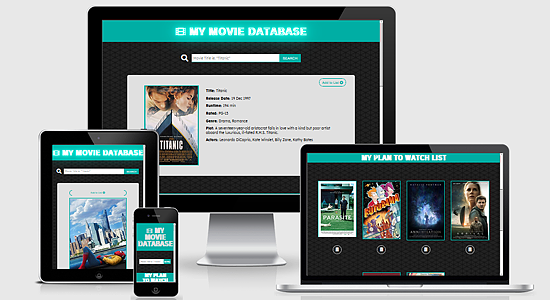
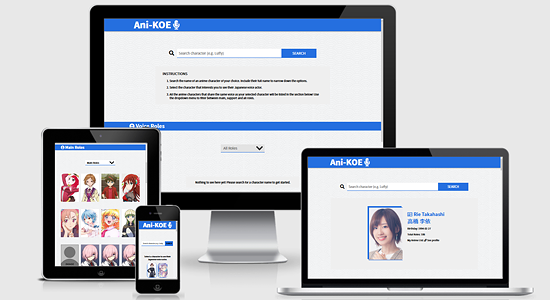
added new project in portfolio and improved font colour :file_folder: :art:

diff --git a/index.html b/index.html
@@ -200,6 +200,10 @@
                             <span class="sr-only">React</span>
                         </li>
                         <li>
+                            <i class="fab fa-css3-alt" aria-hidden="true"></i>
+                            <span class="sr-only">CSS</span>
+                        </li>
+                        <li>
                             <i class="devicon-firebase-plain" aria-hidden="true"></i>
                             <span class="sr-only">Firebase</span>
                         </li>
@@ -240,6 +244,34 @@
                 <div class="project fade hide">
                     <img src="./assets/project03.png" alt="Project mockup visual.">
                     <div class="projectTitle">
+                        <h4>Ani-Koe!</h4>
+                        <div class="links">
+                            <a href="https://github.com/iSupercell/aniKoe" target="_blank" rel="noopener noreferrer"><i class="fab fa-github" aria-hidden="true"></i> Github</a> <a href="https://anikoe.netlify.app/" target="_blank" rel="noopener noreferrer"><i class="fas fa-globe" aria-hidden="true"></i> Live site</a>
+                        </div>
+                    </div>
+                    <p>An application made for anime fans by an anime fan! Does the voice of an anime character sounds familiar? Search their name to find out who voiced them and what other characters share their voice! Built with the Jikan API.</p>
+                    <ul class="devTools">
+                        <li>
+                            <i class="fab fa-html5" aria-hidden="true"></i>
+                            <span class="sr-only">HTML 5</span>
+                        </li>
+                        <li>
+                            <i class="fab fa-css3-alt" aria-hidden="true"></i>
+                            <span class="sr-only">CSS 3</span>
+                        </li>
+                        <li>
+                            <i class="devicon-jquery-plain" aria-hidden="true"></i>
+                            <span class="sr-only">jQuery</span>
+                        </li>
+                        <li>
+                            <i class="fas fa-cogs" aria-hidden="true"></i>
+                            <span class="sr-only">Rest API</span>
+                        </li>
+                    </ul>
+                </div>
+                <div class="project fade hide">
+                    <img src="./assets/project04.png" alt="Project mockup visual.">
+                    <div class="projectTitle">
                         <h4>My Movie Database</h4>
                         <div class="links">
                             <a href="https://github.com/MSTRobort/myMovieDatabase" target="_blank" rel="noopener noreferrer"><i class="fab fa-github" aria-hidden="true"></i> Github</a> <a href="https://mymovie-database.netlify.app/" target="_blank" rel="noopener noreferrer"><i class="fas fa-globe" aria-hidden="true"></i> Live site</a>
@@ -252,6 +284,10 @@
                             <span class="sr-only">React</span>
                         </li>
                         <li>
+                            <i class="fab fa-css3-alt" aria-hidden="true"></i>
+                            <span class="sr-only">CSS</span>
+                        </li>
+                        <li>
                             <i class="devicon-firebase-plain" aria-hidden="true"></i>
                             <span class="sr-only">Firebase</span>
                         </li>
@@ -262,7 +298,7 @@
                     </ul>
                 </div>
                 <div class="project fade hide">
-                    <img src="./assets/project04.png" alt="Project mockup visual.">
+                    <img src="./assets/project05.png" alt="Project mockup visual.">
                     <div class="projectTitle">
                         <h4>Apple Pie!</h4>
                         <div class="links">
@@ -286,7 +322,7 @@
                     </ul>
                 </div>
                 <div class="project fade hide">
-                    <img src="./assets/project05.png" alt="Project mockup visual.">
+                    <img src="./assets/project06.png" alt="Project mockup visual.">
                     <div class="projectTitle">
                         <h4>PSD Design Conversion</h4>
                         <div class="links">
@@ -311,6 +347,7 @@
                 </div>
                 <div class="projectIndicator">
                     <span class="dash dashActive"></span>
+                    <span class="dash"></span>
                     <span class="dash"></span>
                     <span class="dash"></span>
                     <span class="dash"></span>

diff --git a/styles.css b/styles.css
@@ -78,7 +78,7 @@ h2,
 .contact,
 .contact .title,
 a {
-    color: #3E6B89;
+    color: #004370;
 }
 
 h3 {
@@ -164,7 +164,7 @@ img {
 .contact .bullet:focus,
 .contact .bullet:active,
 .activeOnLight {
-    background: #3E6B89;
+    background: #004370;
 }
 
 .wrapper {
@@ -361,7 +361,7 @@ img {
 .menu {
     background: none;
     border: none;
-    color: #3E6B89;
+    color: #004370;
     cursor: pointer;
     font-size: 1.8rem;
     outline: none;
@@ -390,7 +390,7 @@ img {
 }
 
 .mobileNav a {
-    border-bottom: 1px solid #3E6B89;
+    border-bottom: 1px solid #004370;
     display: inline-block;
     font-size: 0.7rem;
     letter-spacing: 2px;
@@ -427,7 +427,8 @@ img {
 .mainNav a:hover,
 .mainNav a:focus {
     background: #F5F5F5;
-    border-bottom: 2px solid #3DD2CC;
+    border-bottom: 2px solid #004370;
+    color: #004370;
 }
 
 h1 {
@@ -507,7 +508,7 @@ header .scrollDown {
 
 .profilePic img {
     border: 2px solid;
-    border-color: #3DD2CC #3E6B89 #3E6B89 #3DD2CC;
+    border-color: #3DD2CC #004370 #004370 #3DD2CC;
     width: auto;
 }
 
@@ -545,7 +546,7 @@ header .scrollDown {
 
 .skills h3::after,
 .contact h3::after {
-    border-bottom: 4px solid #3E6B89;
+    border-bottom: 4px solid #004370;
 }
 
 .skills i {
@@ -605,7 +606,7 @@ header .scrollDown {
 
 .project img {
     border: 2px solid;
-    border-color: #3DD2CC #3E6B89 #3E6B89 #3DD2CC;
+    border-color: #3DD2CC #004370 #004370 #3DD2CC;
 }
 
 .projectTitle {
@@ -645,6 +646,7 @@ h4 {
 }
 
 .devTools {
+    height: 52px;
     justify-content: center;
     margin: 30px 0 50px 0;
 }
@@ -756,8 +758,8 @@ input,
 textarea {
     background: #F5F5F5;
     border: none;
-    border-bottom: 1px solid #3E6B89;
-    color: #3E6B89;
+    border-bottom: 1px solid #004370;
+    color: #004370;
     font-size: 0.8rem;
     margin-bottom: 20px;
     outline: none;
@@ -784,7 +786,7 @@ textarea {
 }
 
 form button {
-    background: #3E6B89;
+    background: #004370;
     border: none;
     color: #F5F5F5;
     cursor: pointer;
@@ -795,7 +797,7 @@ form button {
 form button:hover,
 form button:focus {
     background: #3DD2CC;
-    color: #3E6B89;
+    color: #004370;
 }
 
 .shiba2 {

diff --git a/scripts.js b/scripts.js
@@ -96,21 +96,24 @@ sjmApp.mockupChange = () => {
         `./assets/project02sm.png`,
         `./assets/project03sm.png`,
         `./assets/project04sm.png`,
-        `./assets/project05sm.png`
+        `./assets/project05sm.png`,
+        `./assets/project06sm.png`
     ]
     const mobileMockups = [
         `./assets/project01m.png`,
         `./assets/project02m.png`,
         `./assets/project03m.png`,
         `./assets/project04m.png`,
-        `./assets/project05m.png`
+        `./assets/project05m.png`,
+        `./assets/project06m.png`
     ]
     const regularMockups = [
         `./assets/project01.png`,
         `./assets/project02.png`,
         `./assets/project03.png`,
         `./assets/project04.png`,
-        `./assets/project05.png`
+        `./assets/project05.png`,
+        `./assets/project06.png`
     ]
 
     for (let i = 0; i < sjmApp.totalProject; i++) {
